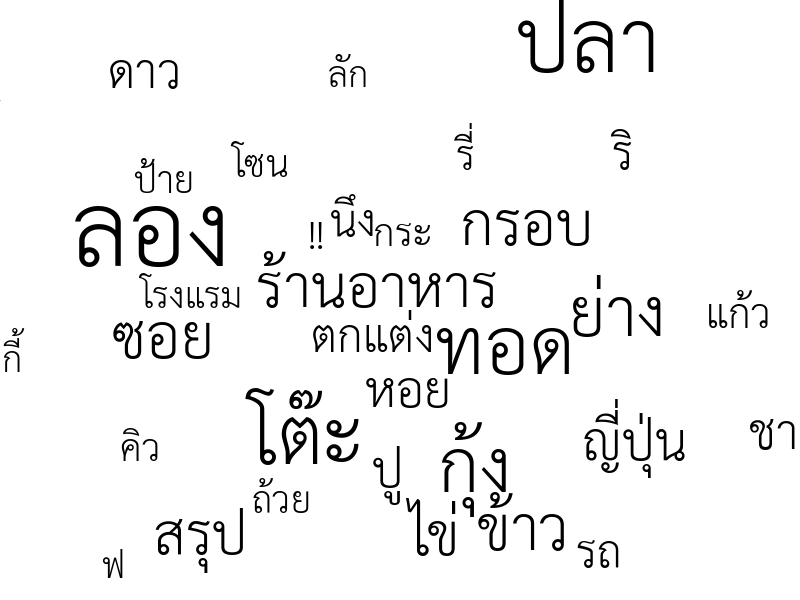
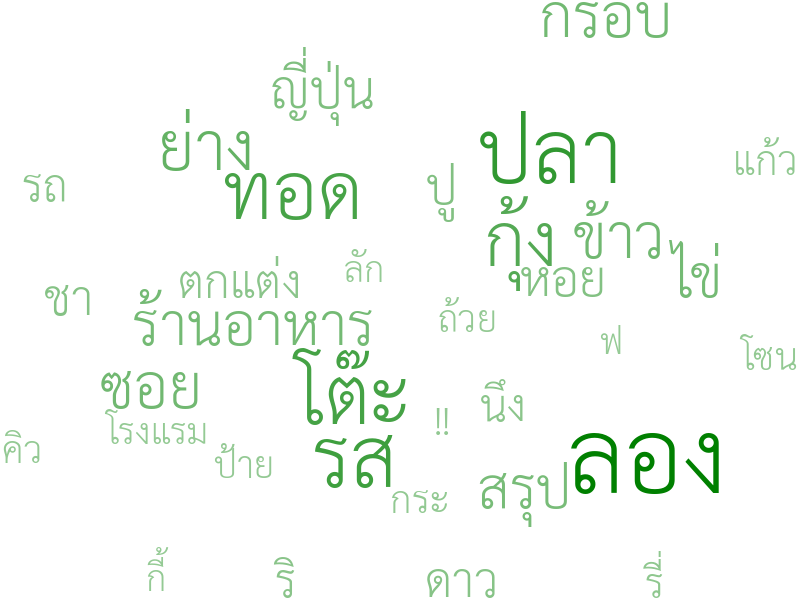
implement frequency coloring

diff --git a/src/swordcloud/wordcloud.py b/src/swordcloud/wordcloud.py
@@ -294,7 +294,7 @@ class SemanticWordCloud:
         self.min_word_length = min_word_length
 
         self.sub_clouds: List[SemanticWordCloud] = []
-        self.layout_: List[Tuple[Tuple[str, float], int, Tuple[int, int], Optional[int], Color]] = []
+        self.layout_: List[Tuple[Tuple[str, float], int, Tuple[int, int], Optional[Image.Transpose], Color, float]] = []
 
     def _embed_w2v(
         self,
@@ -390,7 +390,7 @@ class SemanticWordCloud:
 
         font_sizes: List[int] = []
         positions: List[Tuple[int, int]] = []
-        orientations: List[Optional[int]] = []
+        orientations: List[Optional[Image.Transpose]] = []
         colors: List[Color] = []
 
         if max_font_size is None:
@@ -456,7 +456,7 @@ class SemanticWordCloud:
             if random_state.random() < self.prefer_horizontal:
                 orientation = None
             else:
-                orientation = Image.ROTATE_90
+                orientation = Image.Transpose.ROTATE_90
             tried_other_orientation = False
             while True:
                 # try to find a position
@@ -464,7 +464,7 @@ class SemanticWordCloud:
                 # transpose font optionally
                 transposed_font = ImageFont.TransposedFont(font, orientation=orientation)
                 # get size of resulting text
-                box_size = draw.textsize(word, font=transposed_font)
+                _, _, *box_size = draw.textbbox((0, 0), word, font=transposed_font)
 
                 # find possible places using integral image:
                 resu = tsne_plot[word]
@@ -481,7 +481,7 @@ class SemanticWordCloud:
                 # if we didn't find a place, make font smaller
                 # but first try to rotate!
                 if not tried_other_orientation and self.prefer_horizontal < 1:
-                    orientation = Image.ROTATE_90
+                    orientation = Image.Transpose.ROTATE_90
                     tried_other_orientation = True
                 else:
                     font_size -= self.font_step
@@ -502,6 +502,7 @@ class SemanticWordCloud:
             colors.append(
                 self.color_func(
                     word = word,
+                    frequency = self.words_[word],
                     font_size = font_size,
                     position = (x, y),
                     orientation = orientation,
@@ -519,12 +520,13 @@ class SemanticWordCloud:
 
         self.sub_clouds.clear()
         self.layout_ = list(zip(
-            [(w, f) for i, (w, f) in enumerate(frequencies) if i not in cant_draw],
+            ((w, f) for i, (w, f) in enumerate(frequencies) if i not in cant_draw),
             font_sizes,
             positions,
             orientations,
-            colors
-        ))
+            colors,
+            (self.words_[w] for i, (w, _) in enumerate(frequencies) if i not in cant_draw)
+        )) # type: ignore
 
         if plot_now:
             self.show()
@@ -834,7 +836,7 @@ class SemanticWordCloud:
             self.background_color
         )
         draw = ImageDraw.Draw(img)
-        for (word, _), font_size, position, orientation, color in self.layout_:
+        for (word, _), font_size, position, orientation, color, _ in self.layout_:
             font = ImageFont.truetype(self.font_path, int(font_size * self.scale))
             transposed_font = ImageFont.TransposedFont(font, orientation=orientation)
             pos = (int(position[1] * self.scale), int(position[0] * self.scale))
@@ -888,14 +890,16 @@ class SemanticWordCloud:
                     orientation,
                     color_func(
                         word = word_freq[0],
+                        frequency = frequency,
                         font_size = font_size,
                         position = position,
                         orientation = orientation,
                         random_state = random_state,
                         font_path = self.font_path
-                    )
+                    ),
+                    frequency
                 )
-                for word_freq, font_size, position, orientation, _ in self.layout_
+                for word_freq, font_size, position, orientation, _, frequency in self.layout_
             ]
 
         if plot_now:
@@ -1098,7 +1102,7 @@ class SemanticWordCloud:
             )
 
         # For each word in layout
-        for (word, _), font_size, (y, x), orientation, color in self.layout_:
+        for (word, _), font_size, (y, x), orientation, color, _ in self.layout_:
             x *= self.scale
             y *= self.scale
 
@@ -1113,7 +1117,7 @@ class SemanticWordCloud:
             max_y = ascent - offset_y
 
             # Compute text attributes
-            if orientation == Image.ROTATE_90:
+            if orientation == Image.Transpose.ROTATE_90:
                 x += max_y
                 y += max_x - min_x
                 transform = f'translate({x},{y}) rotate(-90)'

diff --git a/src/swordcloud/color_func.py b/src/swordcloud/color_func.py
@@ -1,10 +1,9 @@
 import numpy as np
-from PIL import ImageFont
+from PIL import Image, ImageFont, ImageColor
 from numpy.typing import NDArray
 from random import Random
 import matplotlib
 from matplotlib.colors import Colormap
-from PIL import ImageColor
 from typing import Optional, Tuple, Dict, Any, Union, Callable, Iterable
 
 Color = Union[
@@ -52,7 +51,7 @@ class ImageColorFunc:
         word: str,
         font_size: int,
         position: Tuple[int, int],
-        orientation: Optional[int],
+        orientation: Optional[Image.Transpose],
         font_path: str,
         **kwargs: Any
     ):
@@ -61,7 +60,7 @@ class ImageColorFunc:
         font = ImageFont.truetype(font_path, font_size)
         transposed_font = ImageFont.TransposedFont(font, orientation=orientation)
         # get size of resulting text
-        box_size = transposed_font.getsize(word)
+        _, _, *box_size = transposed_font.getbbox(word)
         x = position[0]
         y = position[1]
         # cut out patch under word box
@@ -108,7 +107,7 @@ class ColorMapFunc:
         return f"rgb({r:.0f}, {g:.0f}, {b:.0f})"
 
 
-def SingleColorFunc(color: str):
+class SingleColorFunc:
     """
     Create a color function which returns a single hue and saturation with.
     different values (HSV). Accepted values are color strings as usable by
@@ -124,10 +123,14 @@ def SingleColorFunc(color: str):
     >>> color_func1 = SingleColorFunc('deepskyblue')
     >>> color_func2 = SingleColorFunc('#00b4d2')
     """
-    r, g, b, *_ = ImageColor.getrgb(color)
-    def single_color_func(**kwargs: Any):
-        return f"rgb({r:.0f}, {g:.0f}, {b:.0f})"
-    return single_color_func
+    def __init__(self, color: str):
+        r, g, b, *_ = ImageColor.getrgb(color)
+        self.r = r
+        self.g = g
+        self.b = b
+
+    def __call__(self, **kwargs: Any):
+        return f"rgb({self.r}, {self.g}, {self.b})"
 
 class ExactColorFunc:
     """
@@ -156,6 +159,18 @@ class ExactColorFunc:
     def __call__(self, word: str, **kwargs: Any):
         return self.word_to_color.get(word, self.default_color)
 
+class FrequencyColorFunc:
+    """
+    Assign colors based on word frequencies.
+    Less frequent words will have lighter colors.
+    """
+    def __init__(self, base_color: str, scaling: float = 1.5):
+        self.r, self.g, self.b, *_ = ImageColor.getrgb(base_color)
+        self.scaling = scaling
+
+    def __call__(self, frequency: float, **kwargs: Any):
+        return f"rgb({int(self.r + (255 - self.r) * (1 - frequency) / self.scaling)}, {int(self.g + (255 - self.g) * (1 - frequency) / self.scaling)}, {int(self.b + (255 - self.b) * (1 - frequency) / self.scaling)})"
+
 def RandomColorFunc(
     random_state: Random,
     **kwargs: Any
@@ -166,4 +181,4 @@ def RandomColorFunc(
     Default coloring method. This just picks a random hue with value 80% and
     lumination 50%.
     """
-    return "hsl(%d, 80%%, 50%%)" % random_state.randint(0, 255)
+    return "hsl(%d, 80%%, 50%%)" % random_state.randint(0, 360)

diff --git a/example/generate_kmeans_cloud.py b/example/generate_kmeans_cloud.py
@@ -1,22 +1,26 @@
 from swordcloud import SemanticWordCloud
-from swordcloud.color_func import SingleColorFunc
+from swordcloud.color_func import FrequencyColorFunc
 
 wordcloud = SemanticWordCloud(
     language = 'TH',
     width = 2400, # make sure the canvas is appropriately large for the number of clusters
     height = 1200,
     max_font_size = 150,
-    prefer_horizontal = 1,
-    color_func = SingleColorFunc('black')
+    prefer_horizontal = 1
 )
 
 with open('raw_text.txt', encoding='utf-8') as file:
     raw_text = list(map(str.strip, file))
 
-wordcloud.generate_from_text(raw_text, kmeans=6, random_state=42)
+wordcloud.generate_from_text(raw_text, kmeans=6, random_state=42, plot_now=False)
 
 # Or if you already have a dictionary of word frequencies:
-# wordcloud.generate_kmeans_cloud(freq, n_clusters=6, random_state=42)
+# wordcloud.generate_kmeans_cloud(freq, n_clusters=6, random_state=42, plot_now=False)
+
+for sub_cloud, color in zip(wordcloud.sub_clouds, ["red", "blue", "brown", "green", "black", "orange"]):
+    sub_cloud.recolor(FrequencyColorFunc(color), plot_now=False)
+
+wordcloud.show()
 
 # This will generate 6 png files
 wordcloud.to_file('generate_kmeans_cloud.png')

diff --git a/README.md b/README.md
@@ -21,7 +21,7 @@ Optionally, if you want to be able to embed fonts directly into [the generated S
 ```
 pip install swordcloud[embedfont]
 ```
-As of **version 0.0.9**, the exact list of dependencies is as follow:
+As of **version 0.0.10**, the exact list of dependencies is as follow:
 - `python >= 3.8`
 - `numpy >= 1.21.0`
 - `pillow`
@@ -72,24 +72,27 @@ wordcloud.generate_from_frequencies(freq, random_state=42)
 ![Word cloud generated from word frequencies](https://raw.githubusercontent.com/nlp-chula/swordcloud/main/example/generate_from_frequencies.png)
 ### **Generate k-means Cluster Clouds**
 ```python
+from swordcloud.color_func import FrequencyColorFunc
+
 wordcloud = SemanticWordCloud(
     language = 'TH',
     # make sure the canvas is appropriately large for the number of clusters
     width = 2400,
     height = 1200,
     max_font_size = 150,
-    prefer_horizontal = 1,
-    color_func = SingleColorFunc('black')
+    prefer_horizontal = 1
 )
 
-wordcloud.generate_from_text(raw_text, kmeans=6, random_state=42)
+wordcloud.generate_from_text(raw_text, kmeans=6, random_state=42, plot_now=False)
 # Or directly from `generate_kmeans_cloud` if you already have word frequencies
-wordcloud.generate_kmeans_cloud(freq, n_clusters=6, random_state=42)
+wordcloud.generate_kmeans_cloud(freq, n_clusters=6, random_state=42, plot_now=False)
 
 # Each sub cloud can then be individually interacted with
 # by accessing individual cloud in `sub_clouds` attribute
-for cloud in wordcloud.sub_clouds:
-    ...
+for cloud, color in zip(wordcloud.sub_clouds, ["red", "blue", "brown", "green", "black", "orange"]):
+    cloud.recolor(FrequencyColorFunc(color), plot_now=False)
+
+cloud.show()
 ```
 ||||
 -|-|-
@@ -143,6 +146,8 @@ The list of available functions is as follow:
     Always return the user-specified color every single time, resulting in every word having the same color.
 - `ExactColorFunc`\
     Use a user-provided color dictionary to determine exactly which word should have which color.
+- `FrequencyColorFunc`\
+    Assign colors based on word frequencies, with less frequent words having lighter colors. The base color is specified by the user.
 
 All the above functions, **except** `RandomColorFunc` which cannot be customized further, must be initialized before passing them to the `SemanticWordCloud` class. For example:
 ```python
@@ -159,11 +164,13 @@ Users can also implement their own color functions, provided that they are calla
 **Input**:
 - `word: str`\
     The word we are coloring
+- `frequency: float`\
+    Frequency of the word in a scale from 0 to 1
 - `font_size: int`\
     Font size of the word
 - `position: tuple[int, int]`\
     Coordinate of the top-left point  of the word's bounding box on the canvas
-- `orientation: int`\
+- `orientation: PIL.Image.Transpose | None`\
     [`pillow`'s orientation](https://pillow.readthedocs.io/en/stable/reference/Image.html#transpose-methods).
 - `font_path: str`\
     Path to the font file (OTF or TFF)
